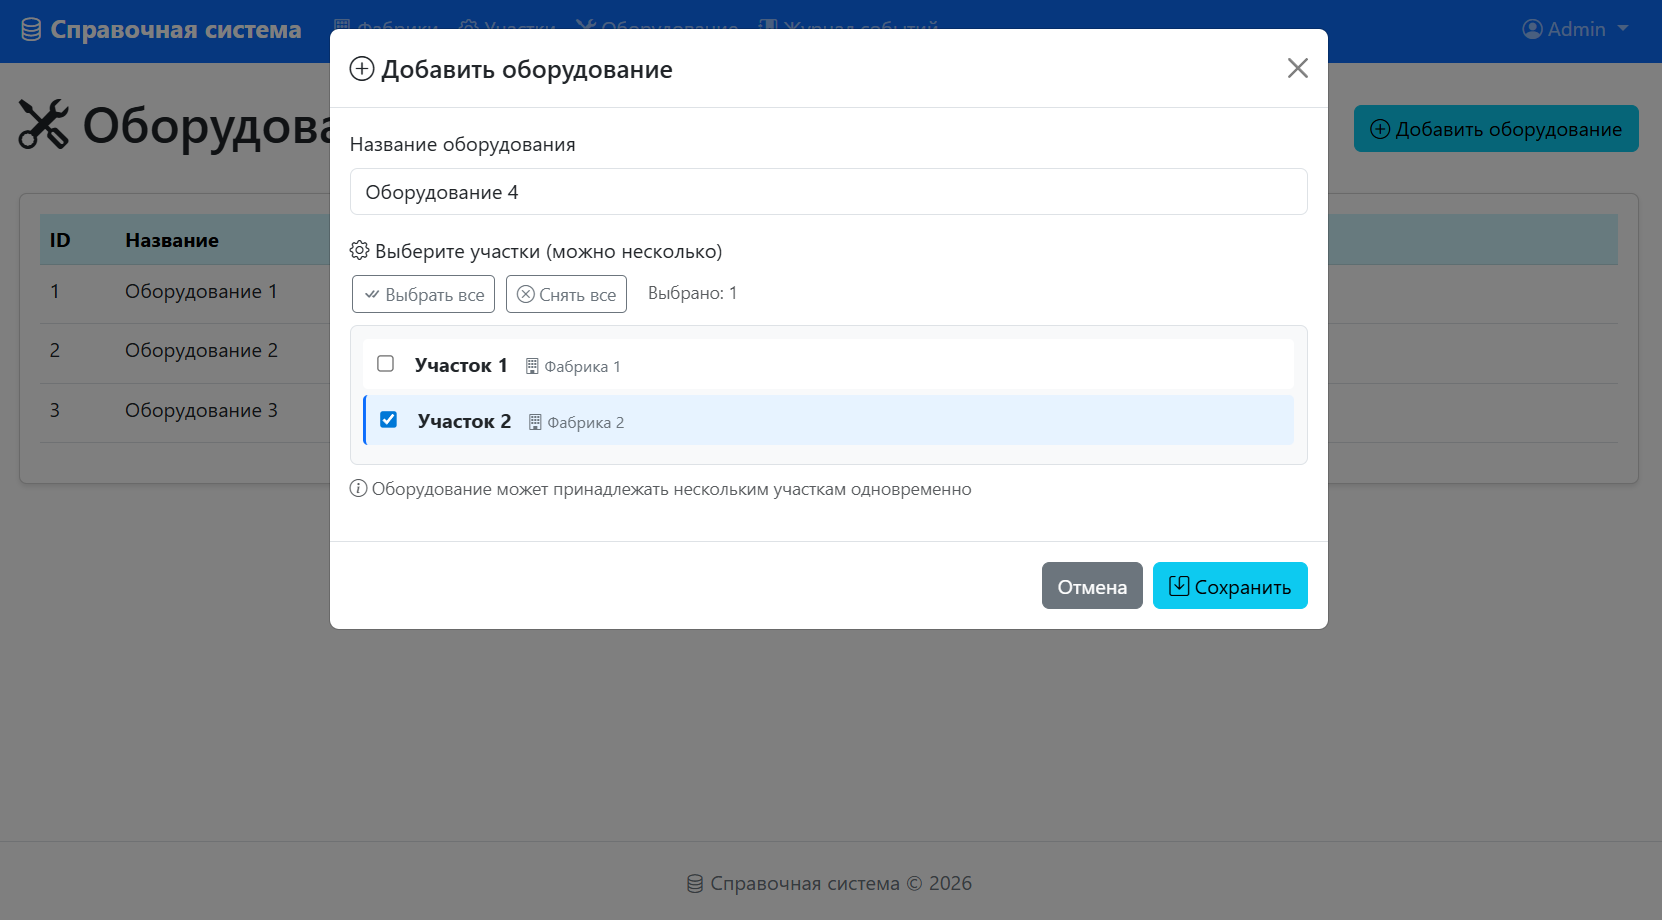
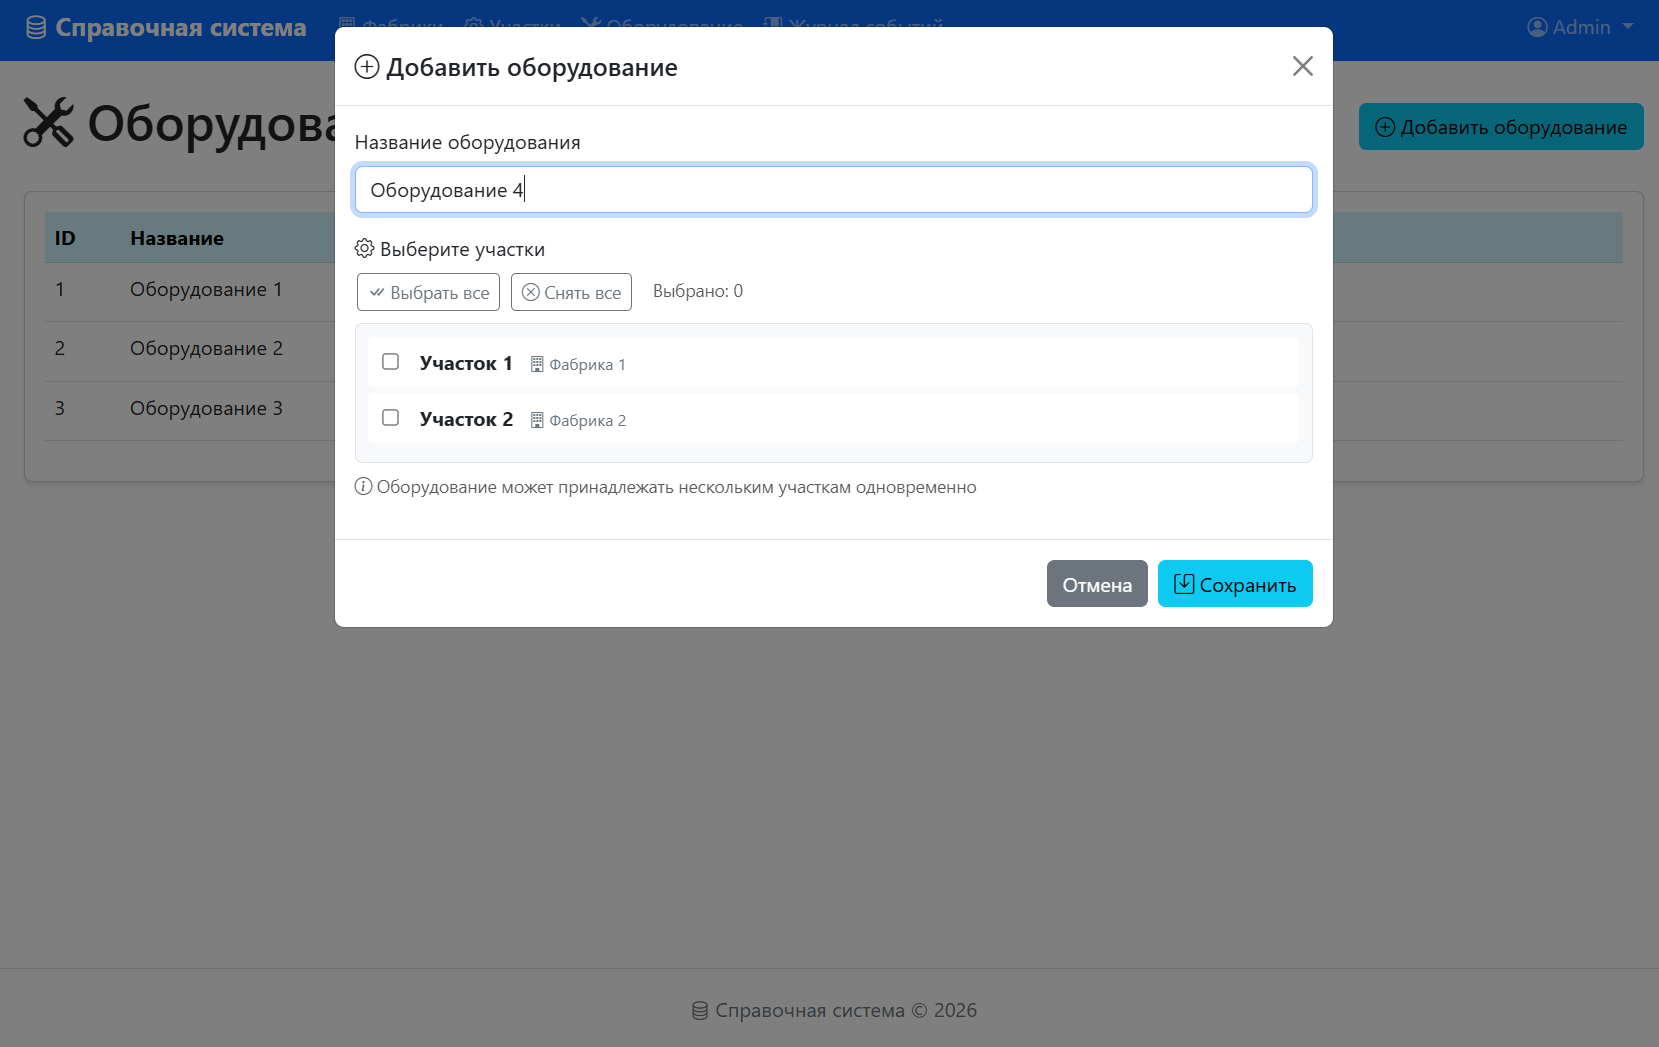
Исправлено окно добавления оборудования

diff --git a/templates/equipments.html b/templates/equipments.html
@@ -89,7 +89,7 @@
                             
                             <div class="mb-3">
                                 <label class="form-label">
-                                    <i class="bi bi-gear"></i> Выберите участки (можно несколько)
+                                    <i class="bi bi-gear"></i> Выберите участки
                                 </label>
                                 
                                 <div class="select-all-btn">